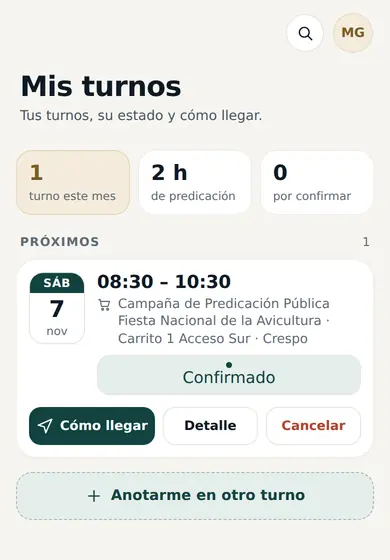
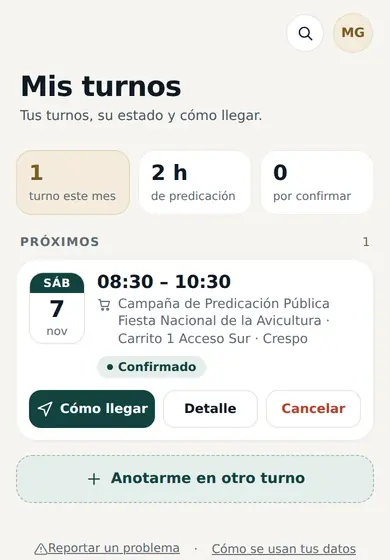
v43: primera visita y espera de confirmación (esqueleto al cargar, Ingresar con borde, etiqueta de estado, aviso por WhatsApp al confirmar)
Claude-Session: https://claude.ai/code/session_01JsTLEoMKfP711YL4JEEee1

diff --git a/app.js b/app.js
@@ -48,7 +48,7 @@
     admins: [], coordEmails: {}, pend: {}, pendUnsub: {},
     isSoporte: false, soporteEmails: [], sop: { reportes: {}, errores: {}, unsub: [], filtro: 'nuevo', detalle: false, limpio: false }, ultimoError: null
   };
-  const VERSION = '42';
+  const VERSION = '43';
   window.__ppam = S;   // para las pruebas
 
   function toast(msg) { if (/^No se pudo/.test(msg)) registrarError('aviso', msg); const t = $('toast'); t.textContent = msg; t.classList.add('show'); clearTimeout(toast.t); toast.t = setTimeout(() => t.classList.remove('show'), 2600); }
@@ -80,7 +80,7 @@
     // Copia local de lo leído: abre más rápido, se ve sin señal y al volver pide solo lo que cambió (menos lecturas)
     try { if (S.db.enablePersistence) S.db.enablePersistence({ synchronizeTabs: true }).catch(() => {}); } catch (e) { /* navegador sin soporte */ }
     S.db.collection('campanas').onSnapshot((qs) => {
-      const o = {}; qs.forEach(d => { o[d.id] = Object.assign({ id: d.id }, d.data()); }); S.campanas = o; const primera = !S.loaded; S.loaded = true; window.__ppamOk = true; $('app').removeAttribute('aria-busy'); if (primera) { render(); setTimeout(() => { if (S.route.name === 'home') bienvenida(); }, 400); } else refrescar(render);
+      const o = {}; qs.forEach(d => { o[d.id] = Object.assign({ id: d.id }, d.data()); }); S.campanas = o; const primera = !S.loaded; S.loaded = true; window.__ppamOk = true; $('app').removeAttribute('aria-busy'); if (primera) { render(); setTimeout(() => { if (S.route.name === 'home') bienvenida(); }, 60); } else refrescar(render);
     }, (e) => { console.error(e); if (S.loaded) return; window.__ppamOk = true; $('app').removeAttribute('aria-busy'); $('app').innerHTML = '<div class="empty carga-err"><b>No pudimos cargar las campañas.</b><br>Revisá la conexión y probá de nuevo.</div><button type="button" class="btn" id="reintentar">Reintentar</button>'; $('reintentar').addEventListener('click', () => location.reload()); });
     S.db.doc('config/publico').onSnapshot((d) => { S.publico = Object.assign({ congregaciones: [], ciudades: [] }, d.exists ? d.data() : {}); if (S.route.name === 'admin' || (S.route.name === 'home' && S.loaded)) render(); }, () => {});
     S.auth.onAuthStateChanged(onUser);
@@ -230,10 +230,12 @@
   document.addEventListener('input', (e) => { if (e.target.type !== 'file' && e.target.closest && e.target.closest('#app [data-editable]')) S.sucio = true; });
   document.addEventListener('focusout', () => setTimeout(refrescarPend, 0));
   function luego() { if (luego.t) return; luego.t = setTimeout(() => { luego.t = 0; refrescar(render); }, 0); }
+  // Mientras cargan las campañas: la forma de la pantalla en gris (se nota que está cargando, no que no anda)
+  const esqueleto = () => `<div class="sk" aria-hidden="true"><div class="skw"><i style="width:55%;height:22px"></i><i style="width:85%"></i><i style="width:70%"></i><i class="skb"></i></div><div class="skt"><i style="width:35%;height:18px"></i></div>${[1, 2].map(() => '<div class="skc"><span class="skth"></span><span><i style="width:60%;height:15px"></i><i style="width:80%"></i><i style="width:45%"></i></span></div>').join('')}</div><p class="sr-only" role="status">Cargando las campañas…</p>`;
   function render() {
     renderTop();
     const r = S.route;
-    if (!S.loaded) { $('app').innerHTML = '<div class="empty">Cargando…</div>'; return; }
+    if (!S.loaded) { $('app').innerHTML = esqueleto(); return; }
     if (r.name === 'camp') return renderCamp();
     if (r.name === 'mis') return renderMis();
     if (r.name === 'turno') return renderTurno();
@@ -320,7 +322,7 @@
     const pill = conf ? '<span class="pill g"><i></i>Confirmado</span>' : '<span class="pill w"><i></i>Esperando confirmación</span>';
     const top = esHoy ? `<span class="today">${I('clock', 'width:13px;height:13px')}${esc(cuando)}</span>${pill}` : `<span class="d">${esc(DOW[parseIso(p.fecha).getDay()] + ' ' + parseIso(p.fecha).getDate() + ' de ' + MES[parseIso(p.fecha).getMonth()])}</span>${pill}`;
     let hint = '';
-    if (!conf) hint = '<div class="hint">Un coordinador lo revisa y te confirma. Lo vas a ver acá y en Mis turnos.</div>';
+    if (!conf) hint = '<div class="hint">Un coordinador lo revisa y te confirma. Lo vas a ver acá y en Mis turnos.' + (p.fecha <= addDays(hoy(), 2) ? ' <b>Si falta poco y todavía no te confirmaron, avisale al coordinador de tu congregación.</b>' : '') + '</div>';
     else if (esHoy && pt.retiro) hint = `<div class="hint">${esc(retiroLabel(pt))}: ${esc(pt.retiro)}</div>`;
     let acts;
     if (!conf) acts = `<button type="button" class="btn gh" data-go="#/t/${esc(p.id)}">Ver detalle</button><button type="button" class="btn gh sm" data-cancelar="${esc(p.id)}">Cancelar</button>`;
@@ -420,7 +422,7 @@
     } else if (!(S.vista === 'mapa' && S.publico.mapa !== false && vis.length)) {   // en modo Mapa, el mapa es el protagonista
       const { n, mejor } = libresSemana(vis);
       const donde = S.ciudad !== 'todas' ? 'En ' + S.ciudad : 'En Entre Ríos';
-      h += `<div class="lbl">${S.user ? 'Todavía no tenés turnos' : 'Predicación pública'}</div><div class="welcome">`;
+      h += `${S.user ? '<div class="lbl">Todavía no tenés turnos</div>' : '<div style="height:6px"></div>'}<div class="welcome">`;
       h += S.user ? `<h4>¿Te sumás esta semana?</h4><p>${esc(donde)} ${n === 1 ? 'falta <b>1 lugar</b>' : `faltan <b>${n} lugares</b>`} en los próximos 7 días.</p>`
         : `<h4>Sumate a un turno</h4><p>Elegí una campaña, un día y un horario. Un coordinador te confirma.</p><div class="stats"><div><b class="num">${vis.length}</b><small>${vis.length === 1 ? 'campaña activa' : 'campañas activas'}${S.ciudad !== 'todas' ? ' en ' + esc(S.ciudad) : ''}</small></div><div><b class="num">${n}</b><small>lugares libres esta semana</small></div></div>`;
       if (mejor) h += `<button type="button" class="btn p" data-go="#/c/${esc(mejor.id)}">Ver turnos libres</button>`;
@@ -751,8 +753,8 @@
     const rech = p.estado === 'rechazado', conf = p.estado === 'confirmado', done = modo === 'done';
     const url = !done && !rech && pt.nombre ? comoLlegarUrl(pt, c) : '';
     const foto = (pt.fotos || [])[0];
-    const chip = done ? (conf ? `<span class="chip dn">${I('check')}Hecho</span>` : `<span class="chip dn">${rech ? 'No confirmado' : 'Sin confirmar'}</span>`)
-      : `<span class="chip ${conf ? 'ok' : rech ? 'rj' : 'pe'}"><i></i>${esc(ESTADOS[p.estado] || p.estado)}</span>`;
+    const chip = done ? (conf ? `<span class="est dn">${I('check')}Hecho</span>` : `<span class="est dn">${rech ? 'No confirmado' : 'Sin confirmar'}</span>`)
+      : `<span class="est ${conf ? 'ok' : rech ? 'rj' : 'pe'}"><i></i>${esc(ESTADOS[p.estado] || p.estado)}</span>`;
     let acts = '';
     if (url) acts += `<a class="go" href="${esc(url)}" target="_blank" rel="noopener">${I('nav')}Cómo llegar</a>`;
     acts += `<button type="button" class="sbtn" data-go="#/t/${esc(p.id)}">Detalle</button>`;
@@ -770,6 +772,7 @@
     h += `<div class="det"><div class="st ${esc(p.estado)}"><i></i>${conf ? 'Confirmado por un coordinador' : rech ? 'No fue confirmado' : 'Esperando confirmación'}${!conf && !rech ? ' <a class="qhelp" href="#/ayuda/espera">¿Qué significa?</a>' : ''}</div>`;
     h += `<h2>${esc(cap(DOW_L[d.getDay()]))} ${d.getDate()} de ${MES[d.getMonth()]} · <span class="num">${esc(p.desde)} a ${esc(p.hasta)}</span></h2>`;
     h += `<div class="m">${esc([c.nombre, pt.nombre, pt.direccion].filter(Boolean).join(' · '))}</div>`;
+    if (!conf && !rech && !pasado) h += `<p class="espera">${I('clock', 'width:15px;height:15px;flex-shrink:0;margin-top:2px')}<span>Un coordinador lo revisa y te confirma. Si falta poco para el turno y todavía no te confirmaron, avisale al coordinador de tu congregación.</span></p>`;
     if (!rech) h += `<div class="tl"><span class="ok"><span class="dot">${I('check')}</span>Pedido</span><span class="ln on"></span><span class="${conf ? 'ok' : ''}"><span class="dot">${conf ? I('check') : ''}</span>Confirmado</span><span class="ln${pasado ? ' on' : ''}"></span><span class="${pasado ? 'ok' : ''}"><span class="dot">${pasado ? I('check') : ''}</span>El día</span></div>`;
     h += '<div class="grid4">';
     h += url ? `<a class="pr" href="${esc(url)}" target="_blank" rel="noopener">${I('nav')}Llegar</a>` : `<button type="button" disabled>${I('nav')}Llegar</button>`;

diff --git a/tests/app.test.js b/tests/app.test.js
@@ -14,7 +14,7 @@ let ok = 0, bad = 0; const check = (l, c, x) => { if (c) { ok++; console.log('  
 // Firestore y Auth en memoria (lo mínimo que usa la app).
 function mock(seed, users) {
   // la bienvenida y la guía del coordinador ya vistas (salvo en las pruebas que las revisan)
-  try { if (!window.__bvNueva) { localStorage.setItem('ppam-bienvenida', '1'); localStorage.setItem('ppam-guia-coord', '1'); } } catch (e) { /* nada */ }
+  try { if (!window.__bvNueva) { localStorage.setItem('ppam-bienvenida', '1'); localStorage.setItem('ppam-guia-coord', '1'); } if (!window.__avisoWa) localStorage.setItem('ppam-avisar-wa', 'no'); } catch (e) { /* nada */ }
   const store = JSON.parse(JSON.stringify(seed));
   const listeners = new Set();
   const clone = (x) => JSON.parse(JSON.stringify(x));
@@ -1038,6 +1038,45 @@ const SEED = {
     await u.click('.qhelp'); await u.waitForTimeout(300);
     check('lleva a la Ayuda con esa respuesta abierta', await u.evaluate(() => location.hash === '#/ayuda/espera' && document.getElementById('faq-espera').open));
     check('sin errores (enlaces de ayuda)', k.errs.length === 0 && u.errs.length === 0, [k.errs, u.errs]);
+  }
+  console.log('\nPrimera visita y espera de confirmación');
+  {
+    const ctx = await b.newContext({ viewport: { width: 390, height: 844 }, timezoneId: 'America/Argentina/Buenos_Aires' });
+    await ctx.clock.install({ time: new Date('2026-09-30T12:00:00-03:00') });
+    await ctx.route(/gstatic|googleapis|openstreetmap/, r => r.abort());
+    await ctx.addInitScript(`(${mock.toString()})(${JSON.stringify(SEED)}, [])`);
+    await ctx.addInitScript(() => { const db = window.__ppamMock.db, c0 = db.collection; db.collection = (x) => x === 'campanas' ? { onSnapshot: () => () => {} } : c0(x); });
+    const l = await ctx.newPage(); await l.goto(FILE); await l.waitForTimeout(300);
+    check('mientras cargan las campañas se ve la forma de la pantalla (no un "Cargando…" suelto)', await l.evaluate(() => !!document.querySelector('#app .sk .skc') && /Cargando las campañas/.test(document.querySelector('#app [role="status"]').textContent)));
+    const h = await open([], '');
+    check('sin sesión, "Ingresar" es un botón con borde (lo principal es "Ver turnos libres")', await h.evaluate(() => { const b = document.getElementById('userBtn'), cs = getComputedStyle(b); return b.classList.contains('login') && cs.backgroundColor !== getComputedStyle(document.querySelector('.welcome .btn, .welcome button')).backgroundColor && parseFloat(cs.borderTopWidth) > 0; }));
+    check('"Predicación pública" no se repite en el inicio', !/Predicación pública/i.test(await text(h, '#app')));
+    const u = await open([{ uid: 'u-ana', email: 'ana@x.com', displayName: 'Ana Paz' }], '');
+    await u.click('#userBtn'); await u.waitForTimeout(300);
+    await u.evaluate(() => window.__ppamMock.db.doc('pedidos/parana-terminal__2026-10-01__t2__u-ana').set({ cid: 'parana-terminal', fecha: '2026-10-01', tid: 't2', punto: 'p1', desde: '10:00', hasta: '12:00', uid: 'u-ana', email: 'ana@x.com', nombre: 'Ana', apellido: 'Paz', congregacion: 'X', celular: '343 555-0000', estado: 'pendiente', creado: 'x' }));
+    await u.waitForTimeout(300);
+    check('inicio: si el turno es mañana y sigue sin confirmar, sugiere avisar al coordinador', /Si falta poco y todavía no te confirmaron, avisale al coordinador de tu congregación/.test(await text(u, '#app')));
+    await u.evaluate(() => { location.hash = '#/mis'; }); await u.waitForTimeout(300);
+    check('Mis turnos: "Esperando confirmación" es una etiqueta chica, no parece un botón', await u.evaluate(() => { const e = document.querySelector('.tc .est.pe'); return !!e && e.getBoundingClientRect().height < 32 && getComputedStyle(e).cursor !== 'pointer'; }));
+    await u.evaluate(() => { location.hash = '#/t/parana-terminal__2026-10-01__t2__u-ana'; }); await u.waitForTimeout(300);
+    check('detalle: explica la espera y qué hacer si falta poco', /Un coordinador lo revisa y te confirma\. Si falta poco para el turno/.test(await text(u, '.espera')));
+    check('sin errores (espera)', u.errs.length === 0 && h.errs.length === 0, [u.errs, h.errs]);
+    const ctx2 = await b.newContext({ viewport: { width: 390, height: 844 }, timezoneId: 'America/Argentina/Buenos_Aires' });
+    await ctx2.clock.install({ time: new Date('2026-09-30T12:00:00-03:00') });
+    await ctx2.route(/gstatic|googleapis|openstreetmap/, r => r.abort());
+    await ctx2.addInitScript(() => { window.__avisoWa = true; });
+    const S2 = JSON.parse(JSON.stringify(SEED)); S2['pedidos/parana-terminal__2026-10-02__t1__u-luis'] = { cid: 'parana-terminal', fecha: '2026-10-02', tid: 't1', punto: 'p1', desde: '08:00', hasta: '10:00', uid: 'u-luis', email: 'luis@x.com', nombre: 'Luis', apellido: 'Sosa', congregacion: 'X', celular: '343 444-1234', estado: 'pendiente', creado: 'x' };
+    S2['cupos/parana-terminal__2026-10-02__t1'] = { cid: 'parana-terminal', fecha: '2026-10-02', tid: 't1', ocupados: { 'u-luis': 'p' } };
+    await ctx2.addInitScript(`(${mock.toString()})(${JSON.stringify(S2)}, ${JSON.stringify([{ uid: 'u-adm', email: 'admin@x.com', displayName: 'Admin' }])})`);
+    const k = await ctx2.newPage(); k.errs = []; k.on('pageerror', e => k.errs.push(e.message));
+    await k.goto(FILE); await k.waitForTimeout(300); await k.click('#userBtn'); await k.waitForTimeout(300);
+    await k.evaluate(() => { location.hash = '#/coord/parana-terminal'; }); await k.waitForTimeout(500);
+    await k.click('[data-confirmar="parana-terminal__2026-10-02__t1__u-luis"]'); await k.waitForTimeout(400);
+    const av = await k.evaluate(() => { const a = document.getElementById('avWa'); return a && { t: document.querySelector('.sheet').innerText, href: a.getAttribute('href') }; });
+    check('al confirmar, ofrece avisarle por WhatsApp con el mensaje armado', av && /¿Le avisás a Luis\?/.test(av.t) && av.href.startsWith('https://wa.me/5493434441234?text=') && /confirmado/.test(decodeURIComponent(av.href)), av);
+    await k.click('#avNo'); await k.click('.sheet [data-cerrar]'); await k.waitForTimeout(150);
+    check('"No volver a preguntar" queda guardado', await k.evaluate(() => localStorage.getItem('ppam-avisar-wa') === 'no' && !document.querySelector('.sheet')));
+    check('sin errores (aviso por WhatsApp)', k.errs.length === 0, k.errs);
   }
   console.log('\nCampaña corta: solo sus días');
   {

diff --git a/app.css b/app.css
@@ -39,7 +39,7 @@ a { color: var(--pri); }
 .brand b { display: block; font-family: var(--tt); font-size: 15px; letter-spacing: -.01em; }
 .brand small { font-size: 11.5px; color: var(--ink3); font-weight: 500; }
 .back, .round { width: 38px; height: 38px; border-radius: 50%; border: 1px solid var(--line); background: var(--card); display: grid; place-items: center; padding: 0; }
-.login { border: none; background: var(--pri); color: #fff; border-radius: 999px; padding: 9px 15px; font-size: 13px; font-weight: 600; }
+.login { border: 1.5px solid var(--pri); background: var(--card); color: var(--pri); border-radius: 999px; padding: 8px 15px; font-size: 13px; font-weight: 600; }
 .av { width: 38px; height: 38px; border-radius: 50%; border: none; background: var(--gold-bg); color: var(--gold-t); font-weight: 700; font-size: 13px; padding: 0; box-shadow: 0 0 0 1px rgba(184,146,74,.25); }
 .av.big { width: 52px; height: 52px; display: grid; place-items: center; font-size: 17px; flex-shrink: 0; }
 .tb-txt { padding: 14px 2px 6px; }
@@ -788,7 +788,7 @@ a.btn { display: flex; align-items: center; justify-content: center; gap: 8px; t
 .day.on small, .day.on i { color: #C9D2D6; }
 @media (prefers-color-scheme: dark) {
   /* sobre el verde claro del modo oscuro, el texto va oscuro (contraste 4.5:1) */
-  .login, .sbtn.go, .sbtn.pri, .btn:not(.alt):not(.danger), .btn.p, .go, .grid4 > .pr, .grid4 > .pr .ic, .mf-top, .cal small, .inst .go, .mcc .go { color: #0B1A17 !important; }
+  .sbtn.go, .sbtn.pri, .btn:not(.alt):not(.danger), .btn.p, .go, .grid4 > .pr, .grid4 > .pr .ic, .mf-top, .cal small, .inst .go, .mcc .go { color: #0B1A17 !important; }
   .day.on small, .day.on i { color: #4A5561; }
 }
 
@@ -830,3 +830,26 @@ a.btn { display: flex; align-items: center; justify-content: center; gap: 8px; t
 .faq details p { margin: -4px 16px 14px; color: var(--ink2); font-size: 14.5px; line-height: 1.55; }
 .qhelp { margin-left: 8px; font-weight: 500; font-size: 13px; color: var(--pri); text-decoration: underline; text-underline-offset: 2px; }
 .tabbar button { min-width: 0; }
+
+/* Esqueleto mientras carga */
+.sk i, .sk .skth { display: block; background: var(--line2); border-radius: 8px; }
+.sk i { height: 12px; margin: 0 0 10px; }
+.sk .skw { background: var(--card); border: 1px solid var(--line2); border-radius: 24px; padding: 18px; margin: 16px 0 18px; }
+.sk .skw .skb { width: 100%; height: 50px; border-radius: 16px; margin: 18px 0 0; }
+.sk .skt { margin: 6px 4px 12px; }
+.sk .skc { display: flex; gap: 14px; align-items: center; background: var(--card); border: 1px solid var(--line2); border-radius: 20px; padding: 14px; margin-bottom: 12px; }
+.sk .skc > span:last-child { flex: 1; }
+.sk .skth { width: 68px; height: 68px; border-radius: 14px; flex-shrink: 0; }
+@media (prefers-reduced-motion: no-preference) { .sk i, .sk .skth { animation: skp 1.4s ease-in-out infinite; } }
+@keyframes skp { 50% { opacity: .45; } }
+.sr-only { position: absolute; width: 1px; height: 1px; overflow: hidden; clip: rect(0 0 0 0); white-space: nowrap; }
+.falt b { color: var(--ink); font-weight: 600; }
+
+/* Estado del turno en Mis turnos: etiqueta chica (no parece botón) */
+.est { display: inline-flex; align-items: center; gap: 5px; font-size: 12px; font-weight: 600; border-radius: 999px; padding: 4px 10px; white-space: nowrap; }
+.est i { width: 6px; height: 6px; border-radius: 50%; background: currentColor; }
+.est .ic { width: 12px; height: 12px; stroke-width: 2.6; }
+.est.ok { background: var(--pri-bg); color: var(--pri); } .est.pe { background: var(--gold-bg); color: var(--gold-t); }
+.est.rj { background: var(--bad-bg); color: var(--bad); } .est.dn { background: var(--line2); color: var(--ink3); }
+.espera { display: flex; gap: 8px; background: var(--gold-bg); color: var(--ink); border-radius: 14px; padding: 10px 12px; font-size: 13.5px; line-height: 1.45; margin: 10px 0 4px; }
+.espera svg { color: var(--gold-t); }

diff --git a/coord.js b/coord.js
@@ -525,6 +525,19 @@ window.PPAM_COORD = function (K) {
     return h;
   }
   const enCurso = new Set();
+  // Después de confirmar: ofrecer avisarle al hermano por WhatsApp, con el mensaje armado (se puede desactivar)
+  function avisarConfirmado(p, c) {
+    if (!p.celular || p.manual) return false;
+    try { if (localStorage.getItem('ppam-avisar-wa') === 'no') return false; } catch (e) { /* nada */ }
+    const pt = ((c.puntos || {})[p.punto] || {}).nombre || '';
+    const msg = `Hola ${p.nombre}, tu turno del ${fmtDia(p.fecha)} de ${p.desde} a ${p.hasta}${pt ? ' en ' + pt : ''} (${c.nombre || ''}) quedó confirmado. ¡Gracias!`;
+    const ov = sheet(`<h3>¿Le avisás a ${esc(p.nombre)}?</h3><p class="hint">✓ Su turno quedó confirmado. Podés mandarle este mensaje por WhatsApp:</p><div class="sum"><div>${esc(msg)}</div></div><a class="btn" id="avWa" href="${esc(waUrl(p.celular) + '?text=' + encodeURIComponent(msg))}" target="_blank" rel="noopener">${I('chat', 'width:18px;height:18px')}Avisarle por WhatsApp</a><button type="button" class="btn alt" data-cerrar>Ahora no</button><label class="ck" style="margin-top:6px"><input type="checkbox" id="avNo"> <span>No volver a preguntar en este celular</span></label>`);
+    const no = ov.querySelector('#avNo');
+    const guardar = () => { try { if (no.checked) localStorage.setItem('ppam-avisar-wa', 'no'); } catch (e) { /* nada */ } };
+    ov.querySelector('#avWa').addEventListener('click', () => { guardar(); setTimeout(() => ov.remove(), 100); });
+    ov.querySelectorAll('[data-cerrar]').forEach(b => b.addEventListener('click', guardar));
+    return true;
+  }
   async function cambiarEstado(pid, estado) {
     const p = S.coord.pedidos[pid]; if (!p || enCurso.has(pid)) return;
     enCurso.add(pid); setTimeout(() => enCurso.delete(pid), 4000);
@@ -533,7 +546,7 @@ window.PPAM_COORD = function (K) {
     if (estado === 'confirmado') batch.set(cref, { cid: p.cid, fecha: p.fecha, tid: p.tid, ocupados: { [p.uid]: 'c' } }, { merge: true });
     else batch.update(cref, { ['ocupados.' + p.uid]: S.del() });
     batch.update(S.db.doc('pedidos/' + pid), { estado, actualizado: new Date().toISOString(), por: S.user.email.toLowerCase() });
-    try { await batch.commit(); const c = S.campanas[p.cid] || {}; auditar(p.cid, estado === 'confirmado' ? 'confirmo' : p.estado === 'confirmado' ? 'quito' : 'no_confirmo', (estado === 'confirmado' ? 'confirmó a ' : p.estado === 'confirmado' ? 'quitó del turno a ' : 'no confirmó a ') + pTxt(c, p)); toast(estado === 'confirmado' ? 'Confirmado' : 'Listo'); } catch (e) { console.error(e); toast('No se pudo guardar. Probá de nuevo.'); }
+    try { await batch.commit(); const c = S.campanas[p.cid] || {}; auditar(p.cid, estado === 'confirmado' ? 'confirmo' : p.estado === 'confirmado' ? 'quito' : 'no_confirmo', (estado === 'confirmado' ? 'confirmó a ' : p.estado === 'confirmado' ? 'quitó del turno a ' : 'no confirmó a ') + pTxt(c, p)); if (!(estado === 'confirmado' && avisarConfirmado(p, c))) toast(estado === 'confirmado' ? 'Confirmado' : 'Listo'); } catch (e) { console.error(e); toast('No se pudo guardar. Probá de nuevo.'); }
   }
   function textoVoluntarios(c, dias) {
     const i0 = dias.indexOf(S.coord.semana), ds = dias.slice(i0 < 0 ? 0 : i0, (i0 < 0 ? 0 : i0) + 7);

diff --git a/index.html b/index.html
@@ -26,11 +26,11 @@
 <link rel="preconnect" href="https://fonts.googleapis.com">
 <link rel="preconnect" href="https://fonts.gstatic.com" crossorigin>
 <link rel="stylesheet" href="https://fonts.googleapis.com/css2?family=Inter:wght@400;500;600;700&family=Inter+Tight:wght@600;700&display=swap">
-<link rel="stylesheet" href="./app.css?v=42">
+<link rel="stylesheet" href="./app.css?v=43">
 <script defer src="https://www.gstatic.com/firebasejs/10.13.2/firebase-app-compat.js"></script>
 <script defer src="https://www.gstatic.com/firebasejs/10.13.2/firebase-auth-compat.js"></script>
 <script defer src="https://www.gstatic.com/firebasejs/10.13.2/firebase-firestore-compat.js"></script>
-<script defer src="./firebase-config.js?v=42"></script>
+<script defer src="./firebase-config.js?v=43"></script>
 </head>
 <body>
   <svg width="0" height="0" style="position:absolute" aria-hidden="true"><defs>
@@ -79,7 +79,7 @@
   </header>
 
   <main class="ct" id="app" aria-busy="true">
-    <div class="empty">Cargando las campañas…</div>
+    <div class="sk" aria-hidden="true"><div class="skw"><i style="width:55%;height:22px"></i><i style="width:85%"></i><i style="width:70%"></i><i class="skb"></i></div><div class="skt"><i style="width:35%;height:18px"></i></div><div class="skc"><span class="skth"></span><span><i style="width:60%;height:15px"></i><i style="width:80%"></i><i style="width:45%"></i></span></div><div class="skc"><span class="skth"></span><span><i style="width:60%;height:15px"></i><i style="width:80%"></i><i style="width:45%"></i></span></div></div><p class="sr-only" role="status">Cargando las campañas…</p>
   </main>
   <script>
     // Si con mala señal no termina de cargar, avisar y ofrecer reintentar (en vez de "Cargando…" para siempre)
@@ -94,7 +94,7 @@
 
   <footer class="foot">
     <div class="foot-links"><button type="button" class="linkish" id="repBtn"><svg class="ic" aria-hidden="true"><use href="#i-alert"/></svg>Reportar un problema</button><span class="dot">·</span><button type="button" class="linkish" id="privBtn">Cómo se usan tus datos</button></div>
-    <div class="foot-ver" id="verTxt">Versión 42</div>
+    <div class="foot-ver" id="verTxt">Versión 43</div>
   </footer>
 
   <nav class="tabbar" id="tabbar" aria-label="Secciones">
@@ -105,6 +105,6 @@
   </nav>
 
   <div class="toast" id="toast" role="status"></div>
-  <script defer src="./app.js?v=42"></script>
+  <script defer src="./app.js?v=43"></script>
 </body>
 </html>

diff --git a/service-worker.js b/service-worker.js
@@ -1,8 +1,8 @@
 // Service worker de PPAM Entre Ríos: guarda la página y Firebase para que abra rápido y también sin señal.
-const CACHE = 'ppam-v44';
+const CACHE = 'ppam-v45';
 const SDK = 'ppam-sdk-10.13.2';   // Firebase (gstatic): misma versión = mismo archivo, se guarda una vez para abrir sin señal
 const SDK_URLS = ['app', 'auth', 'firestore'].map(n => `https://www.gstatic.com/firebasejs/10.13.2/firebase-${n}-compat.js`);
-const ASSETS = ['./', './index.html', './app.js?v=42', './coord.js?v=42', './app.css?v=42', './firebase-config.js?v=42', './manifest.json', './icon-192.png', './icon-512.png', './icon-180.png', './icon-64.png'];
+const ASSETS = ['./', './index.html', './app.js?v=43', './coord.js?v=43', './app.css?v=43', './firebase-config.js?v=43', './manifest.json', './icon-192.png', './icon-512.png', './icon-180.png', './icon-64.png'];
 self.addEventListener('install', (e) => { e.waitUntil(Promise.all([caches.open(CACHE).then(c => c.addAll(ASSETS)), caches.open(SDK).then(c => Promise.all(SDK_URLS.map(u => c.match(u).then(r => r || fetch(u, { mode: 'no-cors' }).then(n => c.put(u, n)))))).catch(() => {})])); self.skipWaiting(); });
 self.addEventListener('activate', (e) => { e.waitUntil(caches.keys().then(ks => Promise.all(ks.filter(k => k.startsWith('ppam-') && !k.startsWith('ppam-fotos') && k !== SDK && k !== CACHE).map(k => caches.delete(k)))).then(() => self.clients.claim())); });
 self.addEventListener('fetch', (e) => {

diff --git a/CHANGELOG.md b/CHANGELOG.md
@@ -8,6 +8,13 @@
 
 
 
+
+## Versión 43 — primera visita y espera de confirmación
+- Mientras cargan las campañas se ve la forma de la pantalla en gris (en vez de "Cargando…").
+- Sin sesión, "Ingresar" es un botón con borde: lo principal es "Ver turnos libres". "Predicación pública" ya no se repite en el inicio. La bienvenida aparece sin salto.
+- Mis turnos: "Esperando confirmación" es una etiqueta chica (antes tomaba el estilo de los botones de horario y parecía un botón).
+- Detalle del turno pendiente: explica la espera y que, si falta poco, avise al coordinador de su congregación. En el inicio, lo mismo si el turno es en los próximos 2 días.
+- Coordinadores: al confirmar, la app ofrece mandarle el aviso al hermano por WhatsApp con el mensaje armado ("Ahora no" / "No volver a preguntar").
 ## Versión 42 — más liviana para los publicadores
 - La parte de coordinación, administración y soporte pasó a un archivo aparte (coord.js) que se baja solo para quienes la usan. Los publicadores bajan unos 40 KB en lugar de 68 KB (comprimido), y la app abre más rápido la primera vez.
 - Los coordinadores la bajan en segundo plano apenas ingresan, así que para ellos todo sigue igual.
